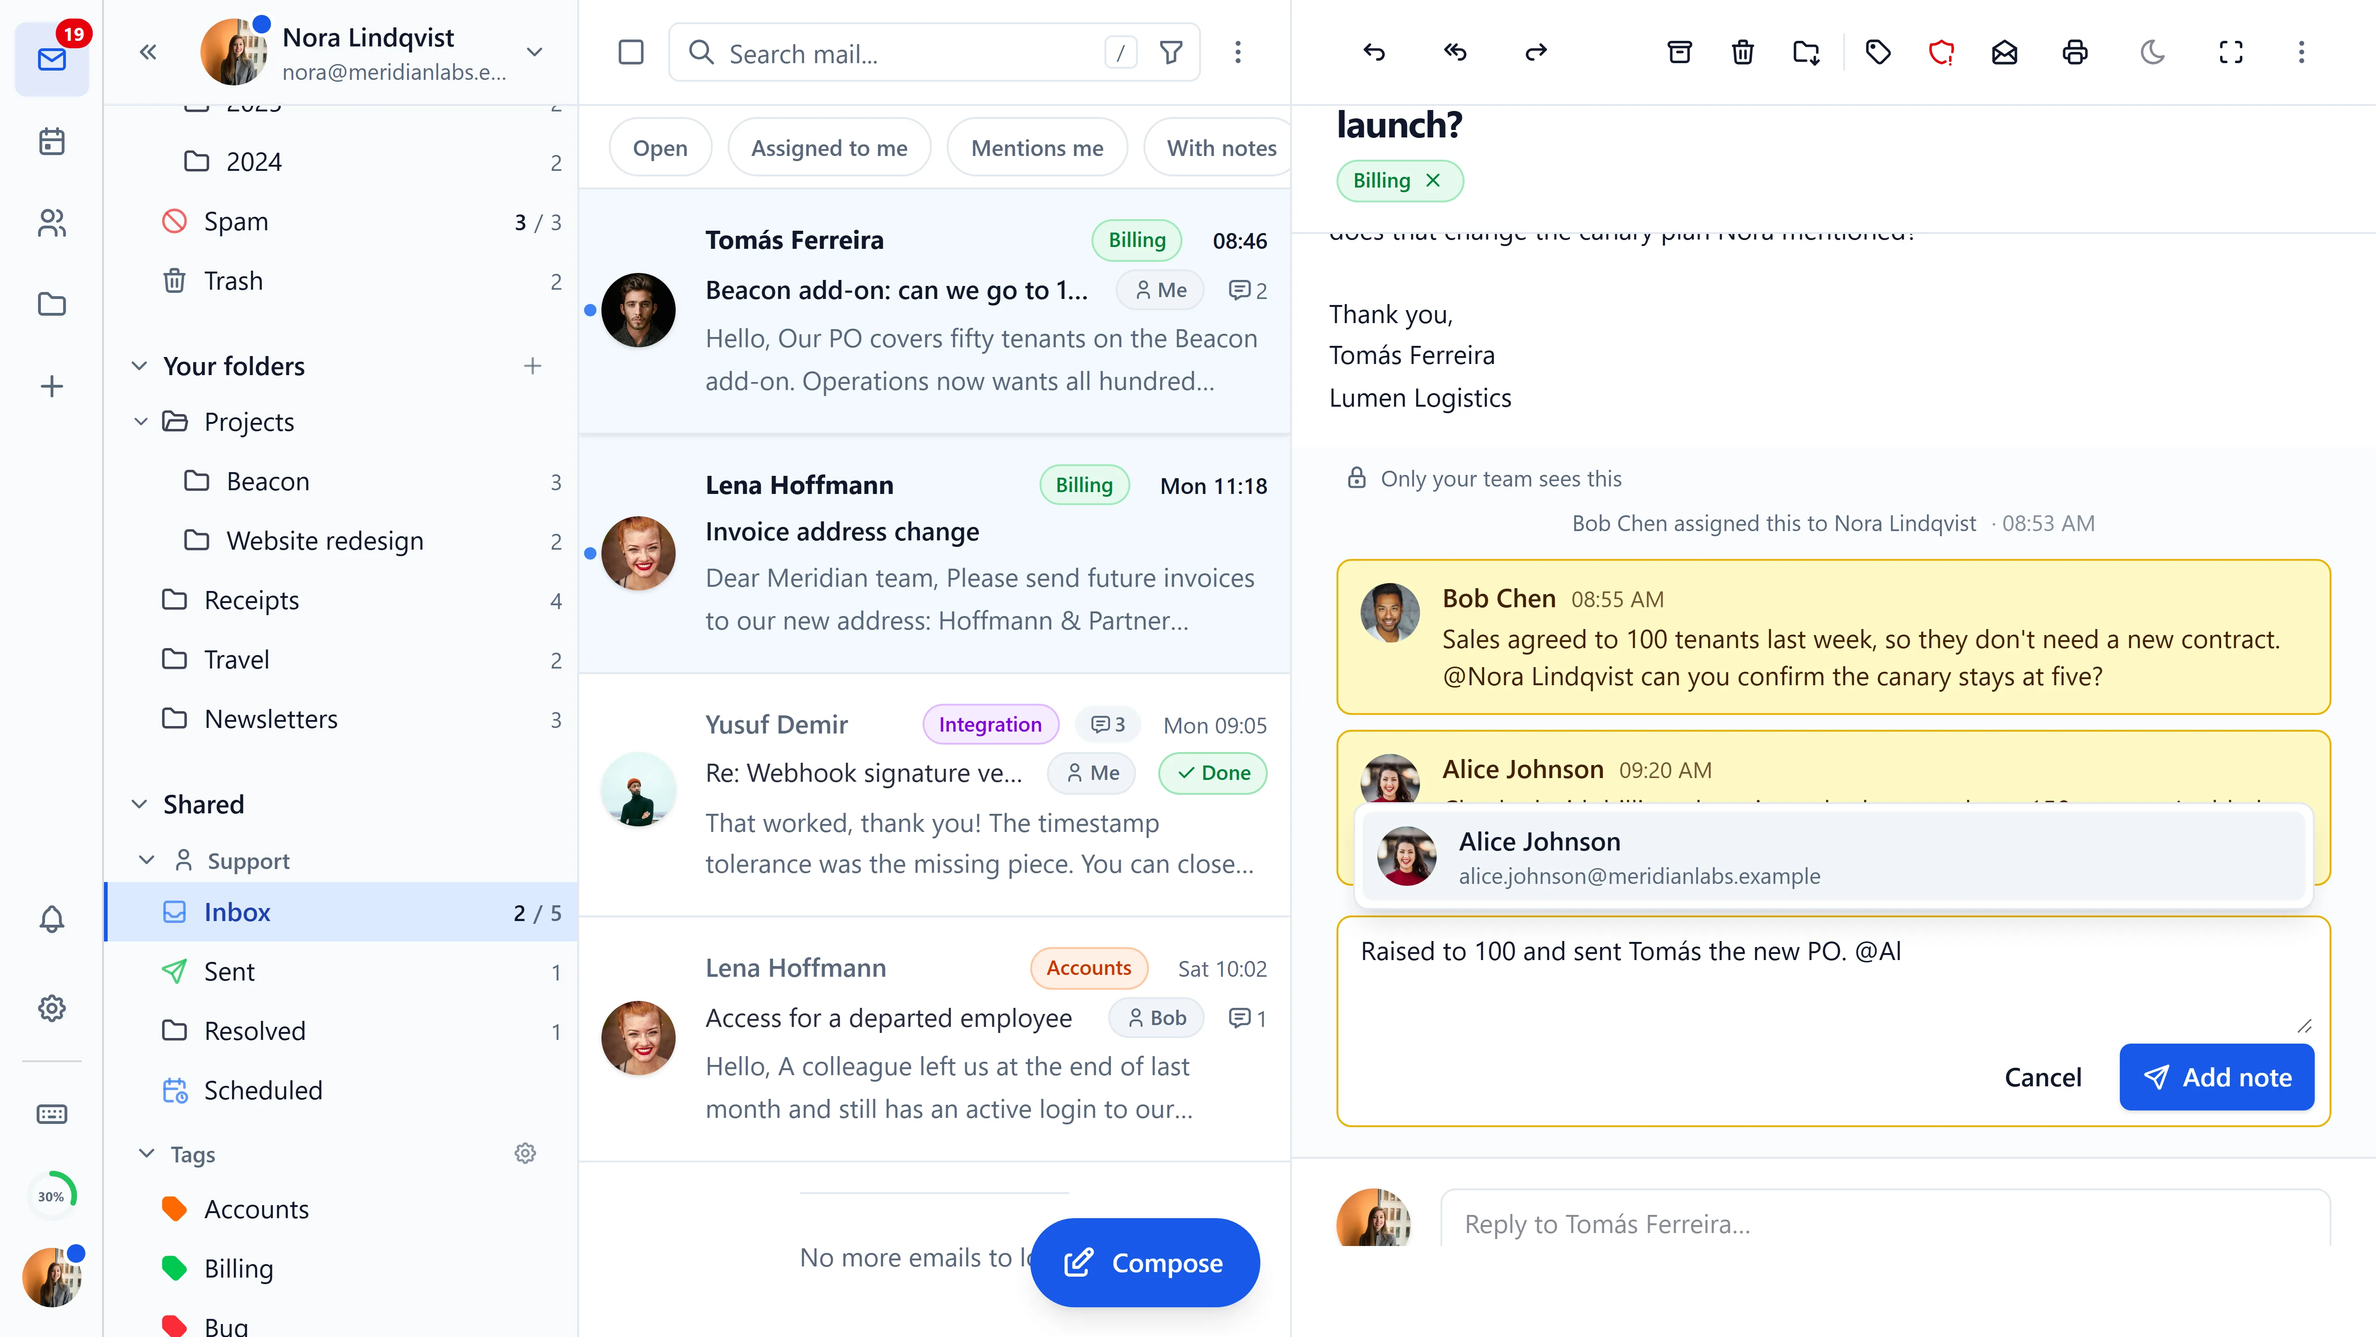
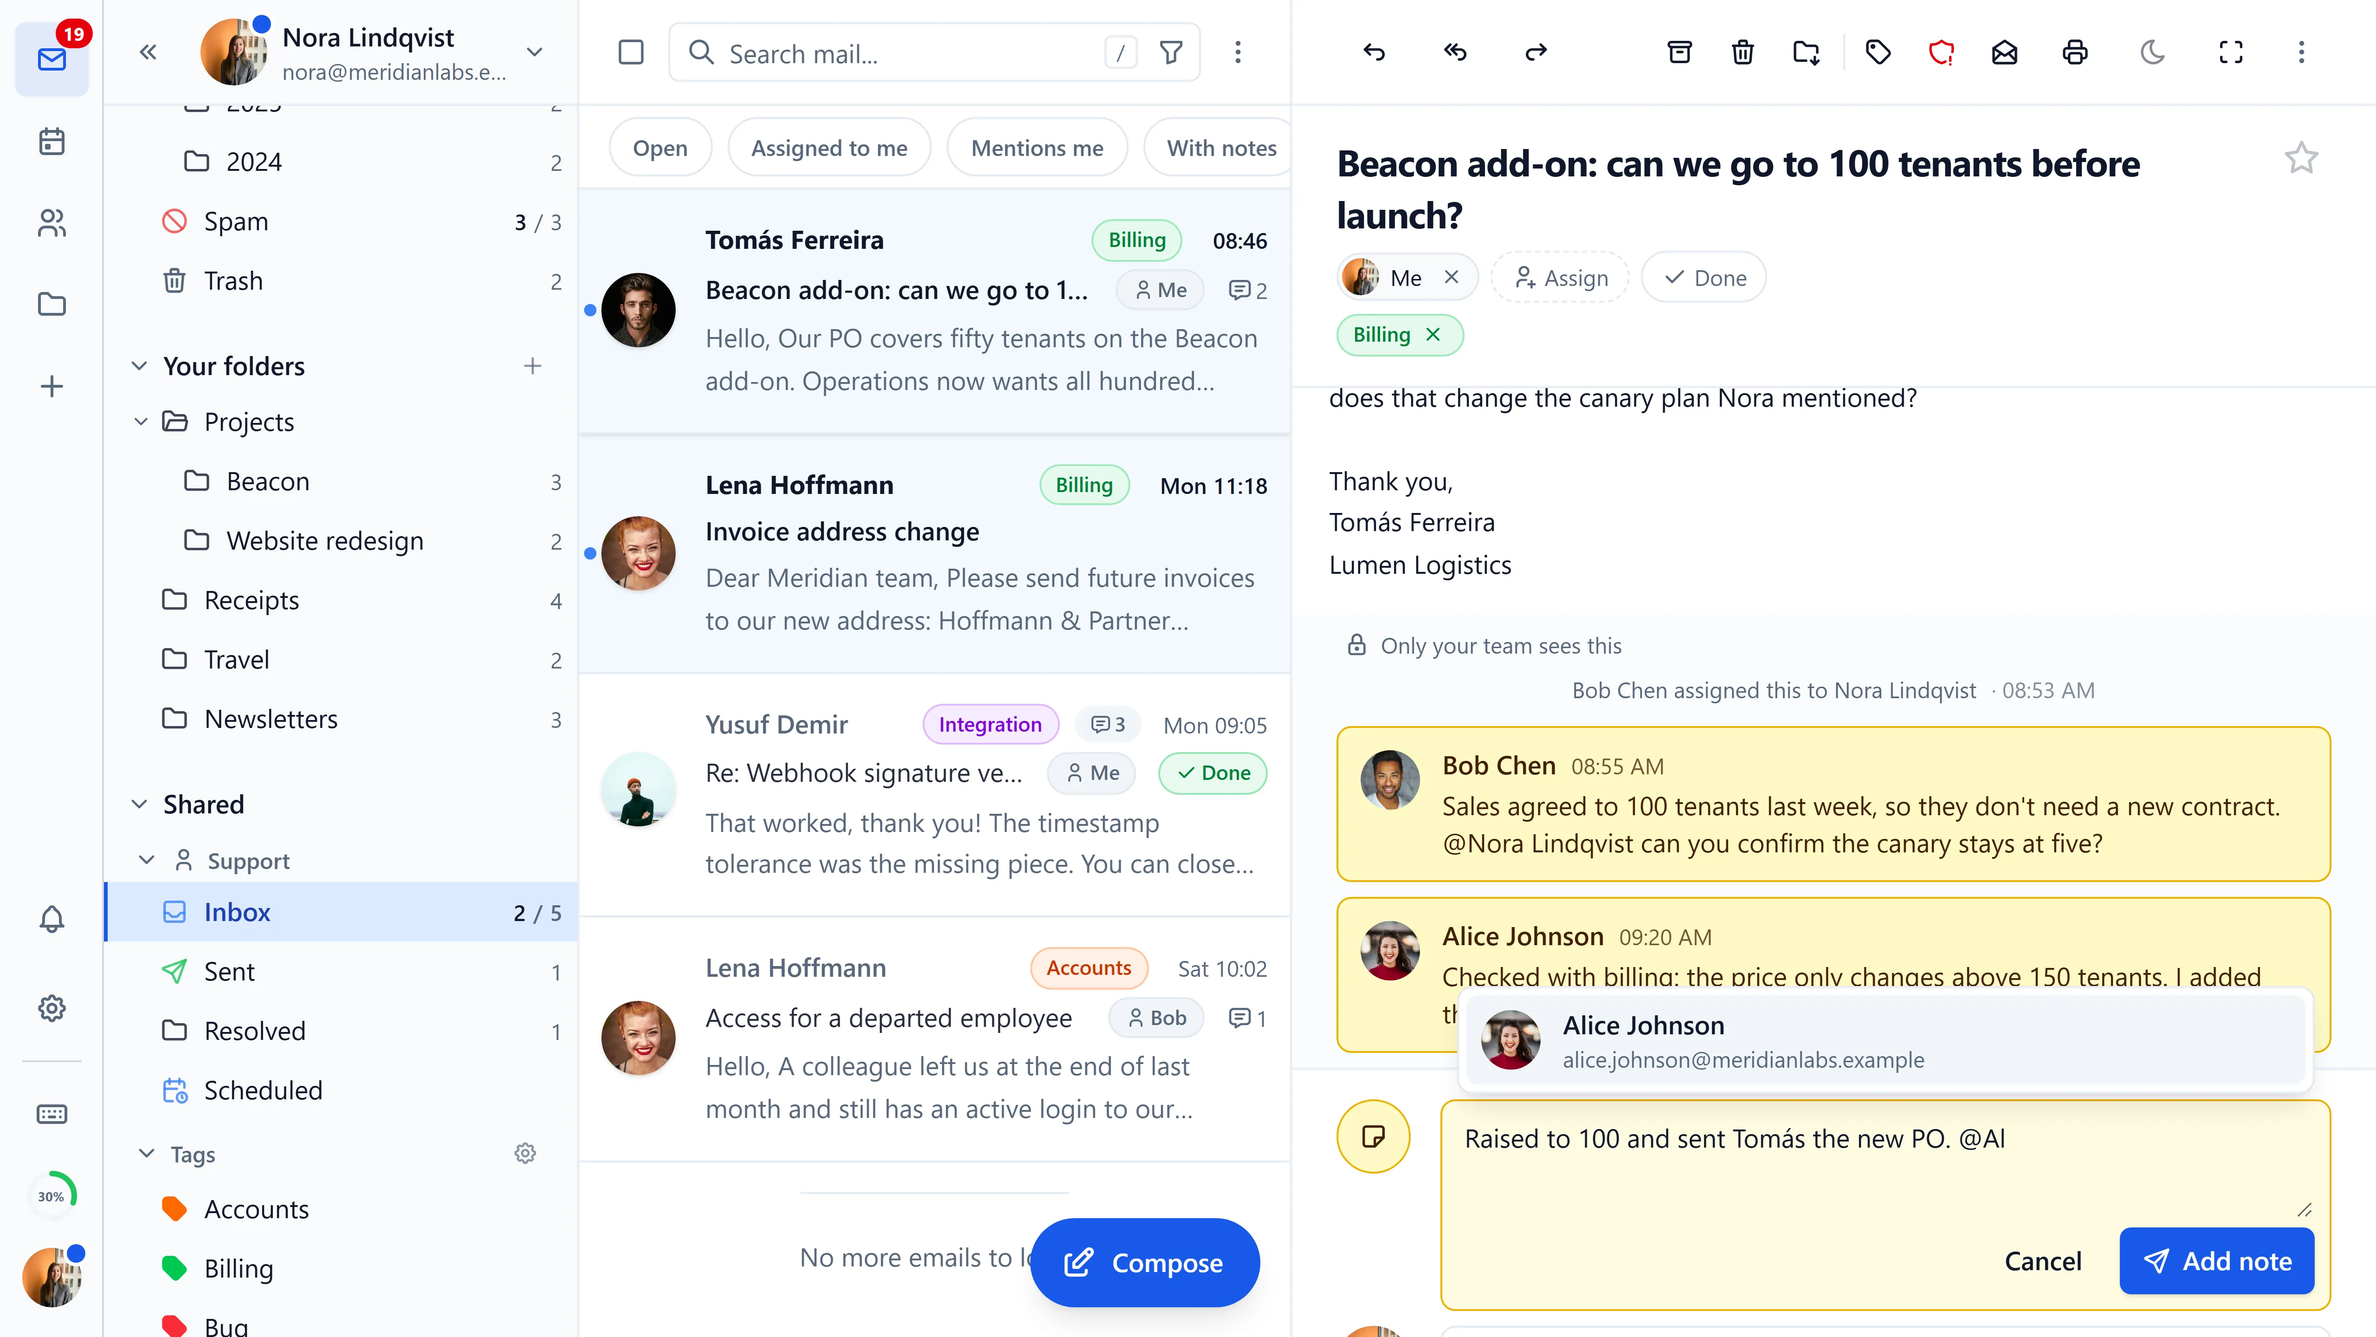
docs: describe several assignees, the note line and who can be picked in team mailboxes

Changed region(s): [[0.5625, 0.3438, 1.0, 1.0], [0.5625, 0.0625, 0.9062, 0.3125]]

diff --git a/docs/features/team-mailboxes.md b/docs/features/team-mailboxes.md
@@ -9,47 +9,49 @@ edition: both
 
 In a mailbox your team shares, such as `info@` or `support@`, you can talk about a message right beside it, without leaving Bulwark. Only your team sees these notes; the customer never does.
 
-Your admin turns this on. If you see **Note** next to Reply, Reply all and Forward in a shared mailbox, it is on.
+Your admin turns this on. If a shared mailbox shows a yellow note line above the reply box, it is on.
 
 ## Write a note
 
 1. Open the message.
-2. Click **Note**. A field opens at the end of the conversation.
+2. Click the note line above the reply box ("Note for your team, @ to mention"), or **Note** next to Reply, Reply all and Forward.
 3. Type, and press Enter. Shift+Enter starts a new line.
 
-The note appears as a yellow card between the messages, with your name and picture. Everyone in the team sees it within seconds. Escape closes the field; what you typed stays there for later.
+The note appears as a yellow card between the messages, with your name and picture. Everyone in the team sees it within seconds. Escape leaves the note line; what you typed stays there for later. **Cancel** empties it.
 
 Above the message a line shows how many notes there are and the newest one. Click it to go to the notes.
 
-<img class="theme-light-only" src="/screenshots/light-team-mailbox-notes.webp" alt="A message in the Support mailbox with the team's notes under it: a grey line saying Bob assigned it to Nora, and yellow note cards from Bob and Alice. The list shows who has each message, note counts, a Done mark and the Open, Assigned to me, Mentions me and With notes filters" width="5120" height="2880" />
-<img class="theme-dark-only" src="/screenshots/dark-team-mailbox-notes.webp" alt="A message in the Support mailbox with the team's notes under it: a grey line saying Bob assigned it to Nora, and yellow note cards from Bob and Alice. The list shows who has each message, note counts, a Done mark and the Open, Assigned to me, Mentions me and With notes filters" width="5120" height="2880" />
+<img class="theme-light-only" src="/screenshots/light-team-mailbox-notes.webp" alt="A message in the Support mailbox: under the subject who has it, Assign and Done; under the message the team's notes, a grey line saying Bob assigned it to Nora and yellow note cards from Bob and Alice; at the bottom the note line above the reply box. The list shows who has each message, note counts, a Done mark and the Open, Assigned to me, Mentions me and With notes filters" width="5120" height="2880" />
+<img class="theme-dark-only" src="/screenshots/dark-team-mailbox-notes.webp" alt="A message in the Support mailbox: under the subject who has it, Assign and Done; under the message the team's notes, a grey line saying Bob assigned it to Nora and yellow note cards from Bob and Alice; at the bottom the note line above the reply box. The list shows who has each message, note counts, a Done mark and the Open, Assigned to me, Mentions me and With notes filters" width="5120" height="2880" />
 
 In the list, a speech bubble shows how many notes a conversation has. A dot next to it means there is a note you haven't seen yet.
 
-A note that couldn't be saved stays in the conversation with the reason and **Retry**. **Edit** puts its text back into the field.
+A note that couldn't be saved stays in the conversation with the reason and **Retry**. **Edit** puts its text back into the note line.
 
 To delete one of your own notes, click the bin on its card. **Undo** in the message at the bottom brings it back. You can't change a note; delete it and write a new one. You can't delete other people's notes.
 
 ## Mention someone
 
-Type @ in a note and pick a colleague from the list (with the arrow keys and Enter, or by tapping). They get a notification: "Mabel mentioned you in “Offer for the Mulberry project”". Nobody else is notified about the note.
+Type @ in a note and pick a colleague from the list (with the arrow keys and Enter, or by tapping). The list shows your team first, then the rest of your organisation's directory where your admin allows that. The colleague gets a notification: "Mabel mentioned you in “Offer for the Mulberry project”". The message is assigned to them too, next to anyone who already has it. Nobody else is notified about the note.
 
-<img class="theme-light-only" src="/screenshots/light-team-mailbox-mention.webp" alt="A note being written with @Al typed, and Alice Johnson offered in the list above the field" width="5120" height="2880" />
-<img class="theme-dark-only" src="/screenshots/dark-team-mailbox-mention.webp" alt="A note being written with @Al typed, and Alice Johnson offered in the list above the field" width="5120" height="2880" />
+Someone who isn't in the list yet shows up once they have opened the team mailbox.
+
+<img class="theme-light-only" src="/screenshots/light-team-mailbox-mention.webp" alt="A note being written in the note line with @Al typed, and Alice Johnson offered in the list above it" width="5120" height="2880" />
+<img class="theme-dark-only" src="/screenshots/dark-team-mailbox-mention.webp" alt="A note being written in the note line with @Al typed, and Alice Johnson offered in the list above it" width="5120" height="2880" />
 
 ## Assign and mark done
 
-- **Assign to me** takes a message.
-- **Assign to…** gives it to someone: pick their name.
-- **Unassign** takes the name off again.
-- **Mark done** when it's dealt with, **Reopen** when it isn't after all.
+A message can be assigned to several people. Under its subject you see who has it, each with an × that takes them off again, and two buttons:
 
-You find these in the reader's toolbar, in the message's right-click menu, in the buttons that show when you point at a row, and on phones in the row menu (touch and hold a message) and the reader's **More** menu. Each change leaves a grey line in the conversation, such as "Linus assigned this to Josh".
+- **Assign** opens the team's list: tick everyone who should have the message and click **Save**.
+- **Done** marks it dealt with. Click it again to reopen it.
 
-List rows show who has a message and a **Done** mark.
+The message's right-click menu, the reader's **More** menu and the buttons that show when you point at a row have the same actions: **Assign to me**, **Assign to…**, **Unassign me** (or **Unassign**, which takes everyone off), **Mark done** and **Reopen**. On phones they are in the row menu (touch and hold a message). Each change leaves a grey line in the conversation, such as "Linus assigned this to Josh".
 
-<img class="theme-light-only" src="/screenshots/light-team-mailbox-assign.webp" alt="The right-click menu of a message in the Support mailbox, with Assign to me, Assign to… and Mark done at the bottom" width="5120" height="2880" />
-<img class="theme-dark-only" src="/screenshots/dark-team-mailbox-assign.webp" alt="The right-click menu of a message in the Support mailbox, with Assign to me, Assign to… and Mark done at the bottom" width="5120" height="2880" />
+List rows show who has a message, with "+1" and so on when several people have it, and a **Done** mark.
+
+<img class="theme-light-only" src="/screenshots/light-team-mailbox-assign.webp" alt="The Assign to list of a message in the Support mailbox, with Nora and Bob ticked, Alice not, and Save" width="5120" height="2880" />
+<img class="theme-dark-only" src="/screenshots/dark-team-mailbox-assign.webp" alt="The Assign to list of a message in the Support mailbox, with Nora and Bob ticked, Alice not, and Save" width="5120" height="2880" />
 
 ## Filters
 
@@ -64,7 +66,7 @@ Click a filter to show only those messages, and click it again to show everythin
 
 ## If something doesn't work
 
-- **"You can read notes here but not write them."** You can read this mailbox but not change it, so there is no Note button. You still see the team's notes.
+- **"You can read notes here but not write them."** You can read this mailbox but not change it, so there is no note line. You still see the team's notes.
 - **"Notes can't be saved in this mailbox. Ask your admin."** The server refused the note. Your admin can give you the rights to write in the shared mailbox.
 - **"You're offline."** Notes are written when you're back online.
 - **"This mailbox is full. Ask your admin."** The shared mailbox has no room left.

diff --git a/docs/guides/organisation/team-mailboxes.md b/docs/guides/organisation/team-mailboxes.md
@@ -46,25 +46,31 @@ or for one group:
 
 In the folders of a team mailbox:
 
-- **Note** next to Reply, Reply all and Forward (in the reader's toolbar and More menu, and on phones in the bar at the bottom). It opens a field at the end of the conversation. Enter saves the note, Shift+Enter starts a new line, Escape closes the field and keeps the text.
+- A note line above the reply box, always open, and **Note** next to Reply, Reply all and Forward (in the reader's toolbar and More menu, and on phones in the bar at the bottom), which puts the cursor in it. Enter saves the note, Shift+Enter starts a new line, Escape leaves the line and keeps the text.
 - Notes appear between the messages of the conversation, in time order, as yellow cards with the writer's name and picture. "Only your team sees this" stands above the first one. Above the message a line says how many notes there are and shows the newest.
-- **Assign to me**, **Assign to…**, **Unassign**, **Mark done** and **Reopen**, each only where it applies. Every change leaves a grey line in the conversation, such as "Linus assigned this to Josh".
+- Under the subject: who has the message (several people can), each with an × to take them off, plus **Assign** and **Done**. **Assign to me**, **Assign to…**, **Unassign me**, **Unassign**, **Mark done** and **Reopen** are in the message's menus, each only where it applies. Every change leaves a grey line in the conversation, such as "Linus assigned this to Josh".
 - On list rows: the number of notes, a dot when there is a note the user hasn't seen, who the message is assigned to, and a **Done** mark.
 - Filters above the list: **Open**, **Assigned to me**, **Mentions me** and **With notes**.
-- Typing @ in a note offers the team's members. The person mentioned gets a notification in Bulwark and, where push notifications are set up, on their phone or computer. Nobody else is notified about a note.
+- Typing @ in a note offers the team's members, then the directory where you allow directory lookups. The person mentioned is added to the message's assignees and gets a notification in Bulwark and, where push notifications are set up, on their phone or computer. Nobody else is notified about a note.
 
-<img class="theme-light-only" src="/screenshots/light-team-mailbox-notes.webp" alt="A message in the Support mailbox with the team's notes under it: a grey line saying Bob assigned it to Nora, and yellow note cards from Bob and Alice. The list shows who has each message, note counts, a Done mark and the four filters" width="5120" height="2880" />
-<img class="theme-dark-only" src="/screenshots/dark-team-mailbox-notes.webp" alt="A message in the Support mailbox with the team's notes under it: a grey line saying Bob assigned it to Nora, and yellow note cards from Bob and Alice. The list shows who has each message, note counts, a Done mark and the four filters" width="5120" height="2880" />
+<img class="theme-light-only" src="/screenshots/light-team-mailbox-notes.webp" alt="A message in the Support mailbox: under the subject who has it, Assign and Done; under the message the team's notes, a grey line saying Bob assigned it to Nora and yellow note cards from Bob and Alice; at the bottom the note line above the reply box. The list shows who has each message, note counts, a Done mark and the Open, Assigned to me, Mentions me and With notes filters" width="5120" height="2880" />
+<img class="theme-dark-only" src="/screenshots/dark-team-mailbox-notes.webp" alt="A message in the Support mailbox: under the subject who has it, Assign and Done; under the message the team's notes, a grey line saying Bob assigned it to Nora and yellow note cards from Bob and Alice; at the bottom the note line above the reply box. The list shows who has each message, note counts, a Done mark and the Open, Assigned to me, Mentions me and With notes filters" width="5120" height="2880" />
 
 See [Team mailboxes](/docs/features/team-mailboxes) for the user's side.
 
 Users can delete their own notes (with Undo) and write a new one. Notes can't be edited, and nobody can delete someone else's note in Bulwark.
 
+## Who can be picked
+
+Stalwart doesn't tell members who else is in a group, so **Assign to…** and the @ list offer the people Bulwark knows are in the team: everyone who has opened the team mailbox, written a note there or been assigned something, plus the server's directory where you allow directory lookups. A new member shows up for the others once they have opened the team mailbox.
+
+On Stalwart 1.0 that list is kept in the group Inbox's shared settings. Stalwart 0.16 has no shared settings, so there each member leaves a small "Team member" entry in the **Team notes** folder the first time they open the team mailbox.
+
 ## How notes are stored
 
 Each note is a small plain-text message in a folder called **Team notes** in the group's mailbox. Bulwark creates the folder when the first note is written and gives it the same sharing as the Inbox, so whoever can read the team mailbox can read its notes. Bulwark never lists the folder: it isn't in the sidebar, in search, in counts or in any folder picker. Mailbox export includes it, because it is part of the mailbox.
 
-Assignment is kept on the message itself, as the keywords `$assigned:<member id>` and `$done`, the same as the Team inbox plugin used, so nothing is lost when you switch from the plugin. Messages with notes also carry `$bulwark-notes`, and `$bulwark-mention-<member id>` for each person mentioned, for the filters.
+Assignment is kept on the message itself, as the keywords `$assigned:<member id>` (one per person) and `$done`, the same as the Team inbox plugin used, so nothing is lost when you switch from the plugin. The plugin kept one person per message; Bulwark keeps any number. Messages with notes also carry `$bulwark-notes`, and `$bulwark-mention-<member id>` for each person mentioned, for the filters.
 
 Good to know:
 
@@ -76,7 +82,7 @@ Good to know:
 
 ## Read-only members
 
-Someone the team mailbox is shared with read-only sees the notes and the assignment, but no Note button and no assignment buttons. Under the notes a line says "You can read notes here but not write them." They see new notes within 20 seconds; members see them within seconds.
+Someone the team mailbox is shared with read-only sees the notes and the assignment, but no note line, no Note button and no assignment buttons. Under the notes a line says "You can read notes here but not write them." They see new notes within 20 seconds; members see them within seconds.
 
 ## Push notifications for mentions
 
